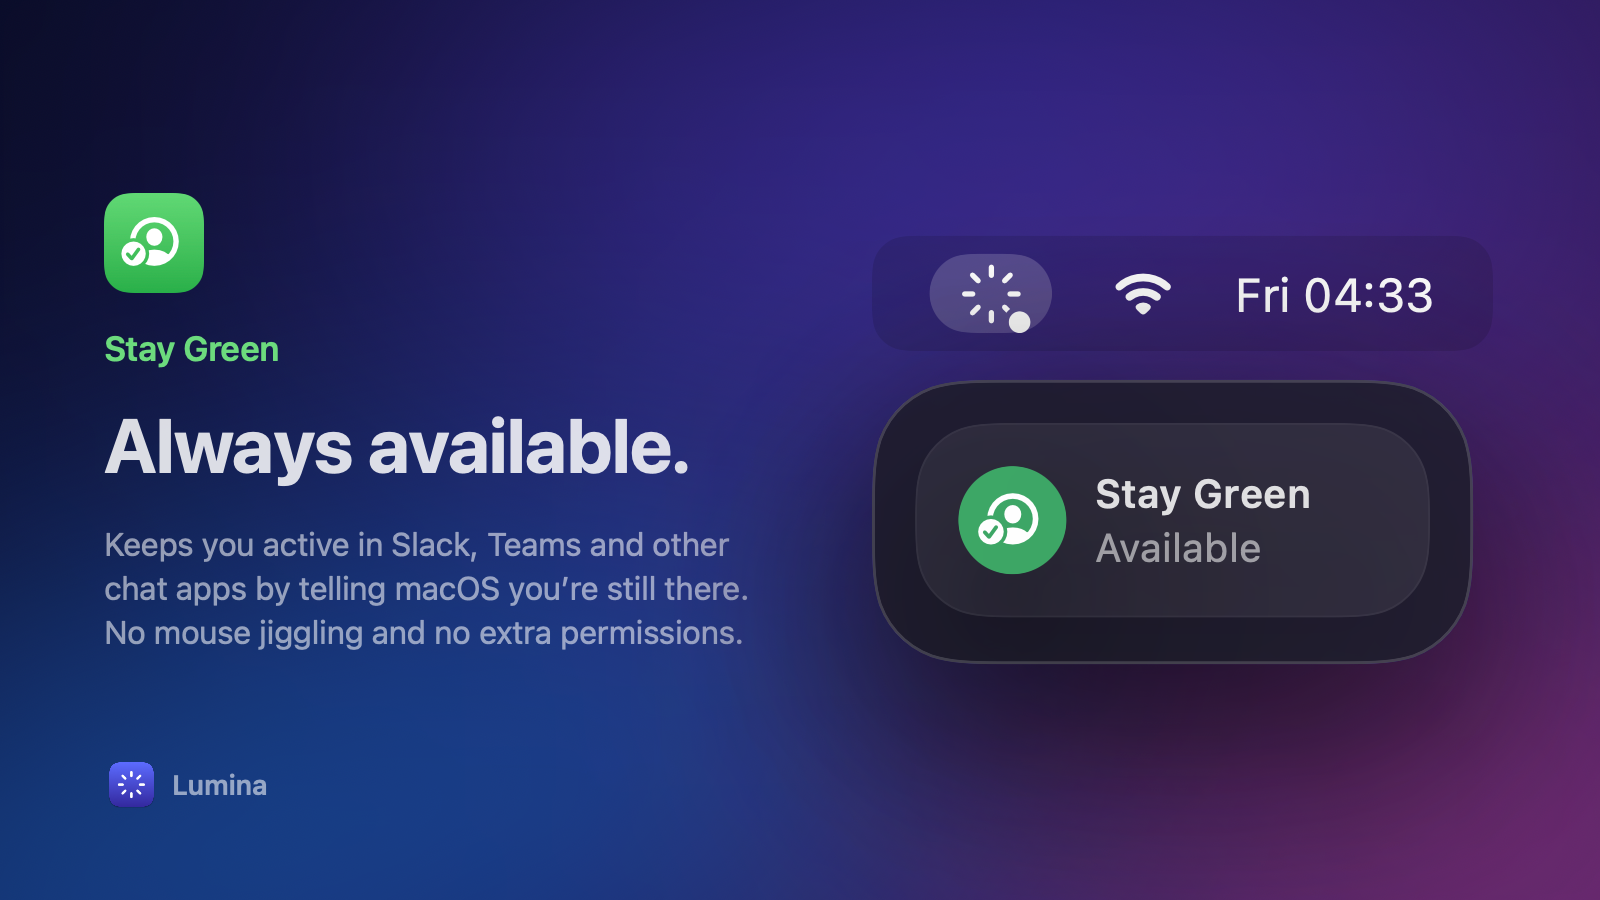
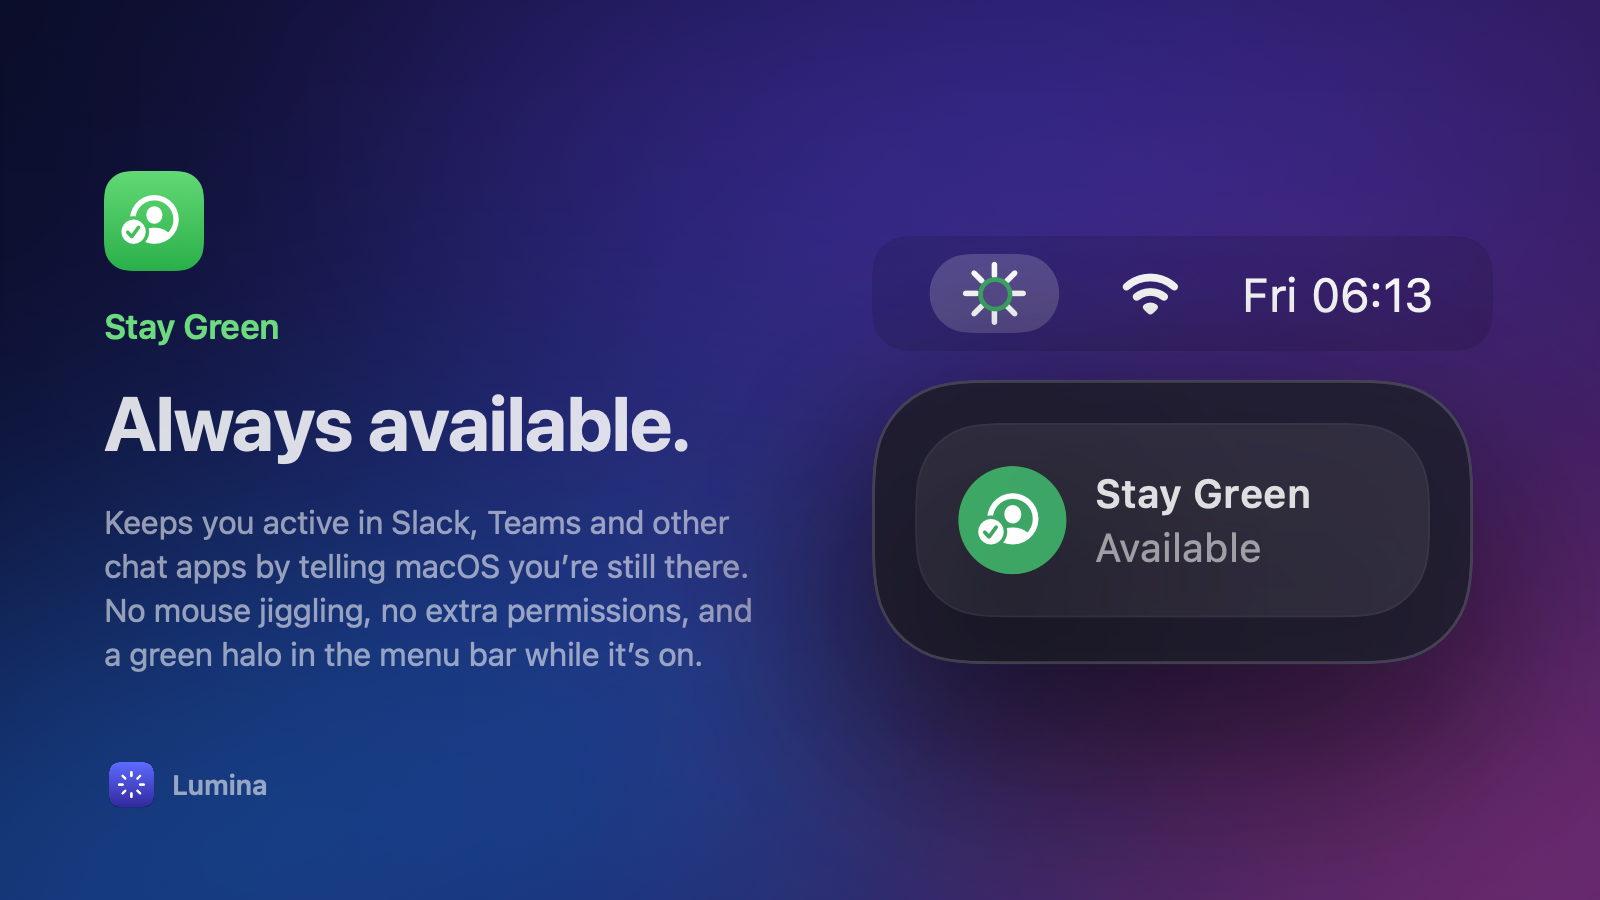
Let users choose the Stay Green menu bar indicator
The Stay Green dot sat on the icon's edge, and the menu bar cropped it to
a quarter circle. The rays are now drawn so the dot can take the place of
one ray, and Stay Green has a settings page to choose its indicator: a
dot, a halo around the center, green rays, or none, with a switch for
green. The green version is drawn at draw time, so the rest of the icon
still follows the menu bar's appearance.

Changed region(s): [[0.0625, 0.4356, 0.4688, 0.7467], [0.0625, 0.1867, 0.1875, 0.4044], [0.5938, 0.28, 0.9062, 0.3733]]

diff --git a/Sources/Lumina/App/MenuBarIcon.swift b/Sources/Lumina/App/MenuBarIcon.swift
@@ -4,47 +4,93 @@ import SwiftUI
 struct MenuBarStatus: Equatable {
     var isCaffeinated = false
     var isStayingGreen = false
+    var stayGreenIndicator = StayGreenIndicator()
+
+    /// Whether the icon has a green part right now, so it can't be drawn as
+    /// a single-color template image.
+    var showsGreen: Bool { isStayingGreen && stayGreenIndicator.isGreen }
 }
 
 /// The Lumina menu bar icon with its status badges.
 ///
 /// - Caffeine fills the rays' empty center, turning them into a sun: awake.
-/// - Stay Green adds a presence dot in the bottom-right corner, like the one
-///   chat apps use for "available".
+/// - Stay Green shows the indicator chosen in its settings: a dot in place
+///   of the bottom-right ray, a ring around the center, or green rays.
 ///
-/// It is drawn in a single color so it can be used as a template image.
+/// Everything stays inside its 22 × 18 point canvas, since the menu bar
+/// crops the image to it.
 struct MenuBarIconView: View {
+    /// Which parts to draw. The menu bar draws the icon's own color and its
+    /// green separately, so the first can follow the menu bar's appearance.
+    enum Layer {
+        case all, ink, green
+    }
+
     let status: MenuBarStatus
     var foreground: Color = .black
+    var layer: Layer = .all
 
     var body: some View {
+        let indicator = status.isStayingGreen ? status.stayGreenIndicator : nil
+        let shape = indicator?.shape ?? .none
+        let isGreen = indicator?.isGreen ?? false
+
         ZStack {
-            Image(systemName: "rays")
-                .font(.system(size: 15, weight: .medium))
+            MenuBarRays(omitsBottomRight: shape == .dot)
+                .fill(color(isGreen: shape == .rays))
 
             if status.isCaffeinated {
+                // A smaller center leaves room for the halo.
+                let size: CGFloat = shape == .halo ? 4.5 : 6
                 Circle()
-                    .frame(width: 6, height: 6)
+                    .fill(color(isGreen: false))
+                    .frame(width: size, height: size)
+            }
+
+            switch shape {
+            case .dot:
+                // Where the bottom-right ray would be.
+                Circle()
+                    .fill(color(isGreen: isGreen))
+                    .frame(width: 5.6, height: 5.6)
+                    .offset(x: 6.8 * 0.7071, y: 6.8 * 0.7071)
+            case .halo:
+                Circle()
+                    .strokeBorder(color(isGreen: isGreen), lineWidth: 1.3)
+                    .frame(width: 9.5, height: 9.5)
+            case .none, .rays:
+                EmptyView()
             }
         }
-        .overlay(alignment: .bottomTrailing) {
-            if status.isStayingGreen {
-                // Cut a gap around the dot so it reads as a separate badge.
-                Circle()
-                    .frame(width: 9, height: 9)
-                    .blendMode(.destinationOut)
-                    .offset(x: 2.5, y: 2.5)
-            }
+        .frame(width: 22, height: 18)
+    }
+
+    private func color(isGreen: Bool) -> Color {
+        switch layer {
+        case .all: isGreen ? .luminaGreen : foreground
+        case .ink: isGreen ? .clear : foreground
+        case .green: isGreen ? .luminaGreen : .clear
         }
-        .compositingGroup()
-        .overlay(alignment: .bottomTrailing) {
-            if status.isStayingGreen {
-                Circle()
-                    .frame(width: 6, height: 6)
-                    .offset(x: 1, y: 1)
-            }
+    }
+}
+
+/// The icon's eight rays, drawn rather than taken from the "rays" symbol so
+/// one can make way for the Stay Green dot.
+struct MenuBarRays: Shape {
+    var omitsBottomRight = false
+
+    func path(in rect: CGRect) -> Path {
+        let center = CGPoint(x: rect.midX, y: rect.midY)
+        let inner = 4.9, outer = 8.0
+        var path = Path()
+        // Index 1 is the ray pointing down and to the right (y grows down).
+        for index in 0..<8 where !(omitsBottomRight && index == 1) {
+            let angle = Double(index) * .pi / 4
+            var ray = Path()
+            ray.move(to: CGPoint(x: center.x + cos(angle) * inner, y: center.y + sin(angle) * inner))
+            ray.addLine(to: CGPoint(x: center.x + cos(angle) * outer, y: center.y + sin(angle) * outer))
+            path.addPath(ray.strokedPath(StrokeStyle(lineWidth: 1.55, lineCap: .round)))
         }
-        .foregroundStyle(foreground)
-        .frame(width: 20, height: 18)
+        return path
     }
 }

diff --git a/Sources/Lumina/Utilities/StayGreen/StayGreenModule.swift b/Sources/Lumina/Utilities/StayGreen/StayGreenModule.swift
@@ -6,7 +6,8 @@ extension Utility {
         name: "Stay Green",
         symbol: "person.crop.circle.badge.checkmark",
         size: .half,
-        content: { AnyView(StayGreenModule(controller: .shared)) }
+        content: { AnyView(StayGreenModule(controller: .shared)) },
+        settings: { AnyView(StayGreenSettings(controller: .shared)) }
     )
 }
 
@@ -24,5 +25,79 @@ struct StayGreenModule: View {
             action: controller.toggle
         )
         .help(controller.isActive ? "Chat apps will keep showing you as available." : "Keep showing as available in chat apps like Teams.")
+    }
+}
+
+/// Stay Green's settings: how the menu bar icon shows it's on.
+struct StayGreenSettings: View {
+    @Bindable var controller: StayGreenController
+
+    var body: some View {
+        VStack(alignment: .leading, spacing: 10) {
+            preview
+
+            Text("Menu Bar Indicator")
+                .font(.system(size: 11, weight: .semibold))
+                .foregroundStyle(.secondary)
+                .padding(.top, 2)
+
+            FullWidthSegmentedPicker(
+                options: StayGreenIndicator.Shape.allCases.map { ($0.title, $0) },
+                selection: $controller.indicator.shape
+            )
+            .accessibilityLabel("Menu Bar Indicator")
+
+            Divider()
+
+            Toggle("Show in Green", isOn: Binding(
+                get: { controller.indicator.isGreen },
+                set: { controller.indicator.prefersGreen = $0 }
+            ))
+            .toggleStyle(.switch)
+            .controlSize(.small)
+            .font(.system(size: 13))
+            .disabled(controller.indicator.shape == .none || controller.indicator.shape == .rays)
+
+            Text(caption)
+                .font(.system(size: 10))
+                .foregroundStyle(.secondary)
+                .fixedSize(horizontal: false, vertical: true)
+        }
+    }
+
+    /// The menu bar icon as it looks with Stay Green on.
+    private var preview: some View {
+        let status = MenuBarStatus(
+            isCaffeinated: CaffeineController.shared.isActive,
+            isStayingGreen: true,
+            stayGreenIndicator: controller.indicator
+        )
+        return VStack(spacing: 8) {
+            HStack(spacing: 14) {
+                MenuBarIconView(status: status, foreground: .primary)
+                    .scaleEffect(1.7)
+                    .frame(width: 38, height: 30)
+                Image(systemName: "wifi")
+                    .font(.system(size: 15, weight: .medium))
+                Text(Date(), format: .dateTime.hour().minute())
+                    .font(.system(size: 14))
+            }
+            .frame(maxWidth: .infinity, minHeight: 64)
+            .background(Color.panelTrack, in: RoundedRectangle(cornerRadius: 12, style: .continuous))
+
+            Text("\(controller.indicator.title) · \(controller.indicator.summary)")
+                .font(.system(size: 10))
+                .foregroundStyle(.secondary)
+        }
+        .accessibilityElement(children: .ignore)
+        .accessibilityLabel("Preview: \(controller.indicator.summary)")
+    }
+
+    private var caption: String {
+        switch controller.indicator.shape {
+        case .none: "Lumina’s icon stays the same while Stay Green is on."
+        case .rays: "Rays are always green, so they stand out from the icon."
+        case .dot, .halo: "Green is the color chat apps use for available."
+        }
     }
 }

diff --git a/Sources/Lumina/App/LuminaApp.swift b/Sources/Lumina/App/LuminaApp.swift
@@ -39,33 +39,60 @@ private struct MenuBarLabel: View {
 
     var body: some View {
         Image(nsImage: Self.render(
-            status: MenuBarStatus(isCaffeinated: caffeine.isActive, isStayingGreen: stayGreen.isActive),
+            status: MenuBarStatus(
+                isCaffeinated: caffeine.isActive,
+                isStayingGreen: stayGreen.isActive,
+                stayGreenIndicator: stayGreen.indicator
+            ),
             time: pomodoro.isInProgress ? pomodoro.formattedRemaining : nil
         ))
     }
 
     /// The menu bar shows only the first image or text of a label, so the
-    /// badged icon and the time are drawn together into one template image.
-    /// It's always drawn this way so the icon keeps the same size and position
+    /// badged icon and the time are drawn together into one image. It's
+    /// always drawn this way so the icon keeps the same size and position
     /// whatever its state.
     private static func render(status: MenuBarStatus, time: String?) -> NSImage {
+        let image: NSImage
+        if status.showsGreen {
+            // A template image can only be one color, so draw the icon's own
+            // color at draw time in the menu bar's label color, then the green.
+            let ink = rasterize(status: status, time: time, layer: .ink)
+            let green = rasterize(status: status, time: time, layer: .green)
+            image = NSImage(size: ink.size, flipped: false) { rect in
+                guard let context = NSGraphicsContext.current?.cgContext else { return false }
+                // Tint only the ink, not what's already under the image.
+                context.beginTransparencyLayer(auxiliaryInfo: nil)
+                ink.draw(in: rect)
+                NSColor.labelColor.set()
+                rect.fill(using: .sourceAtop)
+                context.endTransparencyLayer()
+                green.draw(in: rect)
+                return true
+            }
+        } else {
+            image = rasterize(status: status, time: time, layer: .all)
+            image.isTemplate = true
+        }
+        image.accessibilityDescription = accessibilityDescription(for: status, time: time)
+        return image
+    }
+
+    private static func rasterize(status: MenuBarStatus, time: String?, layer: MenuBarIconView.Layer) -> NSImage {
         let content = HStack(spacing: 5) {
-            MenuBarIconView(status: status)
+            MenuBarIconView(status: status, layer: layer)
             if let time {
                 Text(time)
                     .font(.system(size: 13, weight: .medium))
                     .monospacedDigit()
+                    .foregroundStyle(layer == .green ? Color.clear : .black)
             }
         }
-        .foregroundStyle(.black)
         .frame(height: 18)
 
         let renderer = ImageRenderer(content: content)
         renderer.scale = NSScreen.main?.backingScaleFactor ?? 2
-        let image = renderer.nsImage ?? NSImage()
-        image.isTemplate = true
-        image.accessibilityDescription = accessibilityDescription(for: status, time: time)
-        return image
+        return renderer.nsImage ?? NSImage()
     }
 
     private static func accessibilityDescription(for status: MenuBarStatus, time: String?) -> String {

diff --git a/Sources/Lumina/Utilities/StayGreen/StayGreenController.swift b/Sources/Lumina/Utilities/StayGreen/StayGreenController.swift
@@ -1,5 +1,52 @@
+import Foundation
 import IOKit.pwr_mgt
 import Observation
+
+/// How Lumina's menu bar icon shows that Stay Green is on.
+struct StayGreenIndicator: Equatable {
+    enum Shape: String, CaseIterable {
+        /// The icon doesn't change.
+        case none
+        /// A dot in place of the bottom-right ray.
+        case dot
+        /// A ring between the rays and the center.
+        case halo
+        /// The rays themselves; only shows in green.
+        case rays
+
+        var title: String {
+            switch self {
+            case .none: "None"
+            case .dot: "Dot"
+            case .halo: "Halo"
+            case .rays: "Rays"
+            }
+        }
+    }
+
+    var shape: Shape = .halo
+    var prefersGreen = true
+
+    /// Whether it's drawn in green. Rays always are: in the icon's own
+    /// color they'd look the same as when Stay Green is off.
+    var isGreen: Bool { shape == .rays || (prefersGreen && shape != .none) }
+
+    /// For example "Green Halo".
+    var title: String {
+        isGreen ? "Green \(shape.title)" : shape.title
+    }
+
+    /// For example "A green ring around the center".
+    var summary: String {
+        let color = isGreen ? "green " : ""
+        switch shape {
+        case .none: return "The icon doesn’t change"
+        case .dot: return "A \(color)dot in place of a ray"
+        case .halo: return "A \(color)ring around the center"
+        case .rays: return "The rays turn green"
+        }
+    }
+}
 
 /// Keeps chat apps such as Microsoft Teams showing you as available.
 ///
@@ -17,10 +64,32 @@ final class StayGreenController {
 
     private(set) var isActive = false
 
+    /// How the menu bar icon shows Stay Green is on.
+    var indicator: StayGreenIndicator {
+        didSet {
+            defaults.set(indicator.shape.rawValue, forKey: Self.shapeKey)
+            defaults.set(indicator.prefersGreen, forKey: Self.greenKey)
+        }
+    }
+
     @ObservationIgnored private var assertionID: IOPMAssertionID = 0
     @ObservationIgnored private var heartbeat: Task<Void, Never>?
+    @ObservationIgnored private let defaults = UserDefaults.standard
 
-    private init() {}
+    private static let shapeKey = "stayGreen.indicatorShape"
+    private static let greenKey = "stayGreen.indicatorIsGreen"
+
+    private init() {
+        let defaults = UserDefaults.standard
+        var indicator = StayGreenIndicator()
+        if let shape = defaults.string(forKey: Self.shapeKey).flatMap(StayGreenIndicator.Shape.init) {
+            indicator.shape = shape
+        }
+        if defaults.object(forKey: Self.greenKey) != nil {
+            indicator.prefersGreen = defaults.bool(forKey: Self.greenKey)
+        }
+        self.indicator = indicator
+    }
 
     func toggle() {
         isActive ? deactivate() : activate()

diff --git a/scripts/marketing/main.swift b/scripts/marketing/main.swift
@@ -121,7 +121,7 @@ struct Feature {
         Feature(
             slug: "stay-green", name: "Stay Green", symbol: "person.crop.circle.badge.checkmark", tint: .green,
             headline: "Always available.",
-            detail: "Keeps you active in Slack, Teams and other chat apps by telling macOS you’re still there. No mouse jiggling and no extra permissions.",
+            detail: "Keeps you active in Slack, Teams and other chat apps by telling macOS you’re still there. No mouse jiggling, no extra permissions, and a green halo in the menu bar while it’s on.",
             utilityIDs: ["stayGreen"],
             tiles: [.utility("stayGreen")],
             menuBar: MenuBarStatus(isCaffeinated: false, isStayingGreen: true)

diff --git a/README.md b/README.md
@@ -61,7 +61,7 @@ Requires macOS 26 or later.
   - **Compact Appearance**: just the Light and Dark previews, at half width.
   - **Appearance Row**: the toggle and the previews in a single full-width row.
 - **Caffeine**: keep your Mac and its display awake while it's on, so neither sleep nor the screen saver kicks in.
-- **Stay Green**: keep chat apps like Microsoft Teams showing you as available while it's on. It tells macOS you're active every 30 seconds, without moving the pointer or needing extra permissions. Your display won't sleep while it's on.
+- **Stay Green**: keep chat apps like Microsoft Teams showing you as available while it's on. It tells macOS you're active every 30 seconds, without moving the pointer or needing extra permissions. Your display won't sleep while it's on. Lumina's menu bar icon shows it's on; in its settings, choose the indicator (a dot in place of a ray, a halo around the center, green rays, or none) and whether it's green.
 - **Pomodoro**: four 25-minute focus sessions with 5-minute breaks between them, then a 15-minute long break, repeated. You can change all three durations in its settings. Pause, skip or reset any step. Lumina chimes and posts a notification when a step ends and shows the countdown in the menu bar while a session is under way.
 - **Keyboard**: lock the keyboard so you can clean it. Every key, including media and brightness keys, is ignored until you click the tile again; the mouse and trackpad keep working. Needs Accessibility permission.
 - **Quit All**: quit every open app with one click, as if you pressed ⌘Q in each. Apps with unsaved changes still ask to save. In its settings, choose apps to keep open; Finder and Lumina are never quit.

diff --git a/CLAUDE.md b/CLAUDE.md
@@ -40,7 +40,7 @@ A SwiftUI macOS menu bar app (`MenuBarExtra`, window style) that hosts focus uti
   - `Poof` (the Dock poof, via a `dlsym` lookup of `NSShowAnimationEffect`).
 - `App/`:
   - `PanelView`: the main column (grid, settings, add pages) plus `UtilityLibrary` (edit-mode sidebar) and the footer.
-  - `MenuBarIcon`: the rays icon, drawn as one template image, with a Caffeine sun and a Stay Green dot, plus the Pomodoro time.
+  - `MenuBarIcon`: the rays icon (drawn rays, so the Stay Green dot can replace one), with a Caffeine sun, the Stay Green indicator chosen in its settings (`StayGreenIndicator`: none/dot/halo/rays, optionally green) and the Pomodoro time. Everything must stay inside the 22 × 18 canvas, since the menu bar crops to it. Monochrome states are one template image; a green indicator is drawn by an `NSImage` drawing handler that tints the ink layer with `labelColor` at draw time and draws the green layer on top.
   - `UpdateController`: Sparkle, with update reminders shown as an in-panel banner. It checks at launch and every 6 h.
 
 ### The panel's animation rules (learned the hard way)
